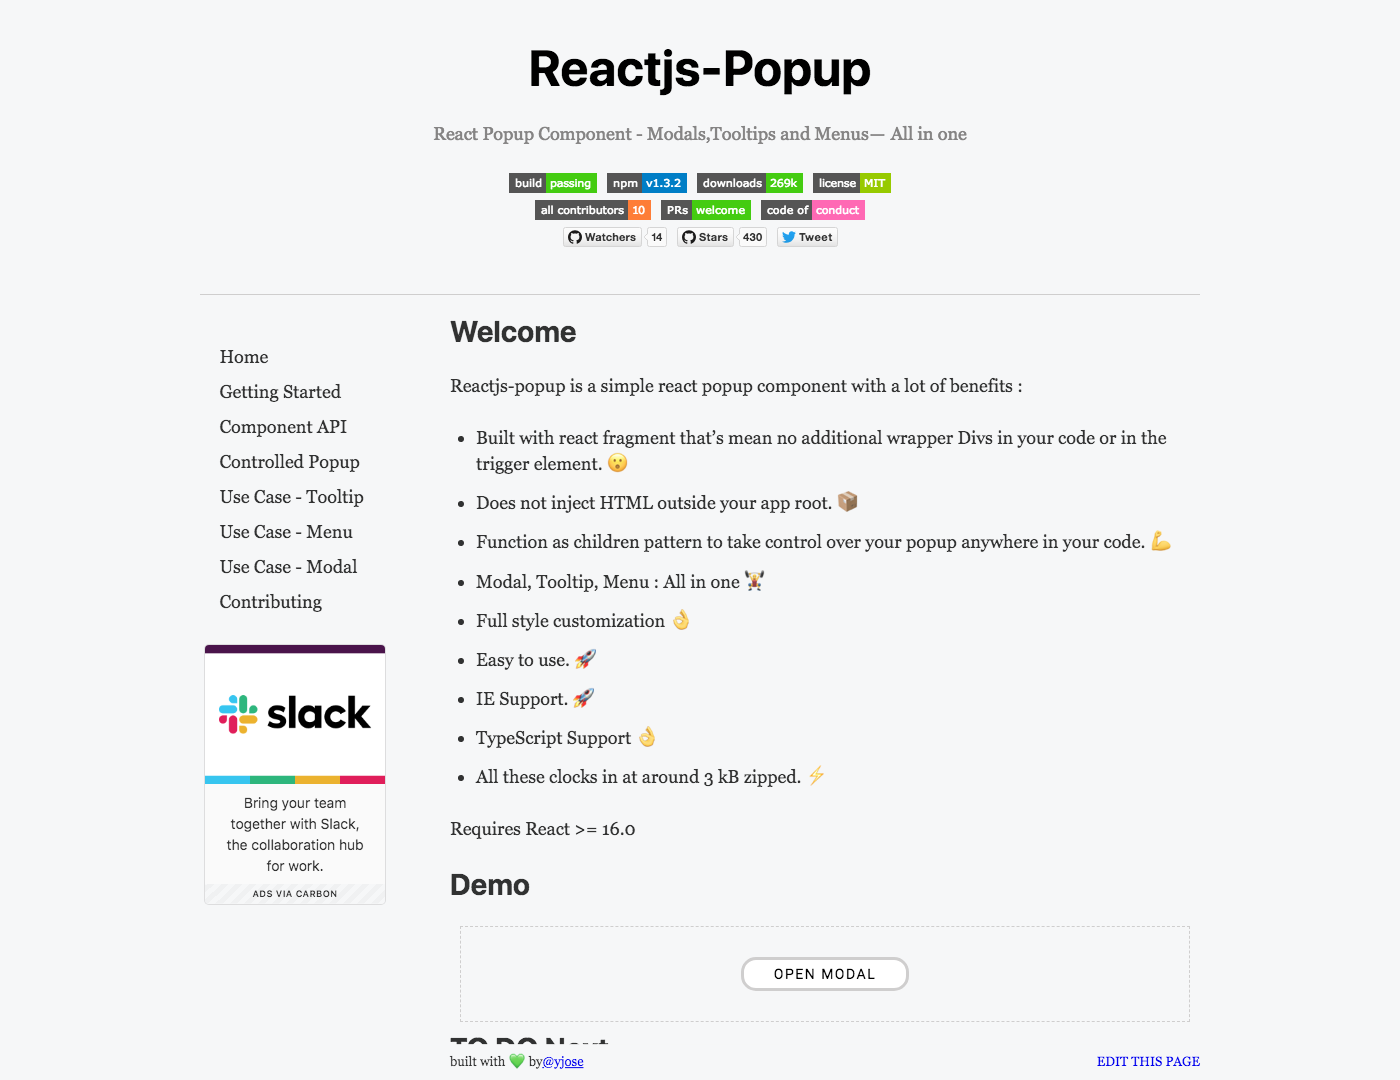
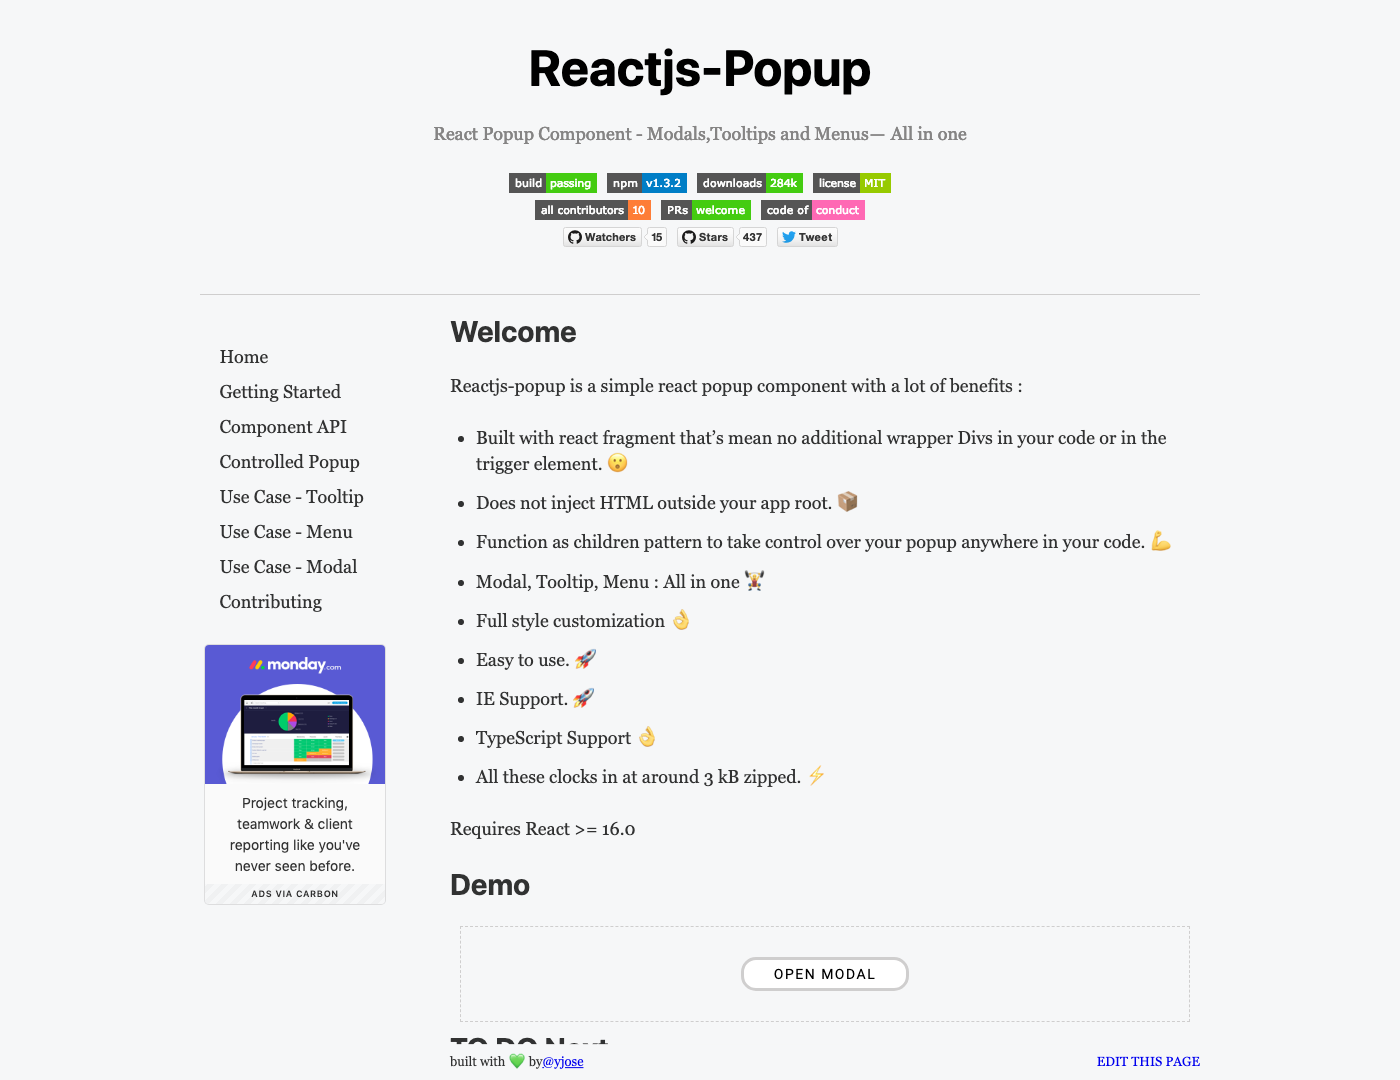
Added new material: @https://github.com/yjose/reactjs-popup

diff --git a/src/materials/components/reactjs-popup/reactjs-popup.md b/src/materials/components/reactjs-popup/reactjs-popup.md
@@ -6,14 +6,14 @@ material:
   title: 'reactjs-popup'
   url: 'https://react-popup.elazizi.com/'
   github_url: 'https://github.com/yjose/reactjs-popup'
-  subscribers_count: '14'
-  stargazers_count: '430'
+  subscribers_count: '15'
+  stargazers_count: '437'
   tags: ['component','modal','react','react-component','react-modal','react-popup','tooltip','tooltip-library']
   subtitle: 'React Popup Component - Modals,Tooltips and Menus —  All in one'
   clone_url: 'https://github.com/yjose/reactjs-popup.git'
   ssh_url: 'git@github.com:yjose/reactjs-popup.git'
-  pushed_at: '2019-02-03T20:01:09Z'
-  updated_at: '2019-02-07T22:29:57Z'
+  pushed_at: '2019-02-13T15:12:27Z'
+  updated_at: '2019-02-14T11:45:39Z'
   author:
     name: 'yjose'
     avatar: 'https://avatars0.githubusercontent.com/u/11137944?v=4'
